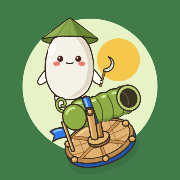
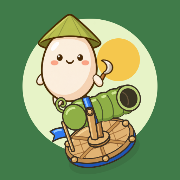
[feature] 쌀 캐릭터 GPU 스프라이트 애니메이션 적용

Changed region(s): [[0.1944, 0.0556, 0.6389, 0.6111]]

diff --git a/prototypes/rice-animation/index.html b/prototypes/rice-animation/index.html
@@ -1,0 +1,58 @@
+<!doctype html>
+<html lang="ko">
+<head>
+<meta charset="utf-8">
+<meta name="viewport" content="width=device-width, initial-scale=1">
+<title>쌀 캐릭터 · 움직임 목업</title>
+<style>
+:root{color-scheme:light;--ink:#29392b;--muted:#647660;--green:#447749;--cream:#fbf7e9;--line:#dbe4c8}
+*{box-sizing:border-box}body{margin:0;background:#edf4e3;color:var(--ink);font-family:system-ui,-apple-system,"Segoe UI","Malgun Gothic",sans-serif}
+button,select,input{font:inherit}button{cursor:pointer}.page{max-width:1160px;margin:auto;padding:30px 24px 40px}
+.top{display:flex;align-items:flex-end;justify-content:space-between;gap:20px;margin-bottom:22px}.eyebrow{font-size:12px;font-weight:800;letter-spacing:.12em;color:#638362}.top h1{font-size:clamp(27px,4vw,38px);letter-spacing:-.05em;line-height:1.1;margin:8px 0}.top p{color:var(--muted);margin:0;font-size:14px;line-height:1.6}.tag{background:#fff9ea;border:1px solid #e7e8d0;border-radius:999px;padding:8px 13px;color:#61785d;font-size:12px;font-weight:700;white-space:nowrap}
+.layout{display:grid;grid-template-columns:minmax(0,1.6fr) minmax(270px,1fr);gap:18px}.stage,.panel{background:var(--cream);border:1px solid #d9e3cb;border-radius:24px;box-shadow:0 12px 35px #3c61310b;overflow:hidden}.stage{position:relative;min-height:490px;background:radial-gradient(ellipse at 50% 12%,#fffef0,#e3f0cf 72%)}.stage-head{position:absolute;top:20px;left:22px;right:22px;display:flex;justify-content:space-between;align-items:center;z-index:1}.stage-label{font-size:12px;color:#698160;font-weight:800}.state-pill{font-size:12px;border-radius:999px;padding:7px 12px;background:#fff9e4;color:#537349;font-weight:800;border:1px solid #e3e7c5}
+canvas{width:100%;height:490px;display:block}.stage-foot{position:absolute;bottom:18px;left:22px;color:#769070;font-size:12px;pointer-events:none}.panel{padding:24px;display:flex;flex-direction:column;gap:22px}.panel h2{margin:0;font-size:18px}.sub{font-size:13px;color:var(--muted);line-height:1.55;margin:6px 0 0}.actions{display:grid;grid-template-columns:repeat(2,1fr);gap:8px;margin-top:14px}.action{min-height:47px;border:1px solid #d7e4c9;border-radius:13px;background:#fffdf5;color:#416045;font-weight:700}.action[aria-pressed=true]{background:#477b4c;border-color:#477b4c;color:#fff;box-shadow:0 3px 0 #315b36}.action:last-child{grid-column:span 2}.section{border-top:1px solid #e2e9d6;padding-top:20px}.label{display:flex;justify-content:space-between;align-items:center;margin-bottom:10px;font-size:13px;font-weight:750}.label span{color:#76866c;font-weight:600}select{width:100%;height:43px;border-radius:11px;border:1px solid #d3dfc8;background:#fffdf5;padding:0 12px;color:var(--ink)}input[type=range]{width:100%;accent-color:var(--green)}.play-row{display:flex;gap:8px}.play-row button{flex:1;min-height:42px;border-radius:11px;border:1px solid #cbdbc2;background:#fffdf5;color:#345739;font-weight:750}.hint{font-size:12px;color:#77866f;line-height:1.6;margin:0}.error{padding:12px;background:#ffe6db;color:#922e18;border-radius:10px}
+@media(max-width:700px){.page{padding:20px 14px 28px}.top{align-items:flex-start}.tag{display:none}.layout{grid-template-columns:1fr}.stage{min-height:360px}canvas{height:360px}.panel{padding:20px;gap:18px}.actions{grid-template-columns:repeat(3,1fr)}.action:last-child{grid-column:auto}.section{padding-top:16px}}
+</style>
+</head>
+<body><main class="page">
+  <header class="top"><div><div class="eyebrow">쌀콩팡! · 캐릭터 실험실</div><h1>쌀의 움직임</h1><p>만든 쌀 부위를 겹쳐 움직여 보는 첫 번째 목업입니다.</p></div><div class="tag">쌀 캐릭터 · 시안</div></header>
+  <div class="layout"><section class="stage" aria-label="쌀 캐릭터 애니메이션 미리보기"><div class="stage-head"><span class="stage-label">움직임 미리보기</span><span id="stateLabel" class="state-pill">대기</span></div><canvas id="stage" aria-label="조합된 쌀 캐릭터"></canvas><div class="stage-foot">몸체·모자 통합 · 얼굴·팔다리 분리</div></section>
+  <aside class="panel"><div><h2>어떤 동작을 볼까요?</h2><p class="sub">동작을 바꿔 모자, 팔과 다리가 어떻게 움직이는지 확인하세요.</p><div class="actions" id="actions"><button class="action" data-mode="idle" aria-pressed="true">대기</button><button class="action" data-mode="walk" aria-pressed="false">걷기</button><button class="action" data-mode="work" aria-pressed="false">작업</button><button class="action" data-mode="attack" aria-pressed="false">공격</button><button class="action" data-mode="hit" aria-pressed="false">피격</button></div></div>
+  <div class="section"><div class="label"><label for="face">표정</label><span>눈과 입 조합</span></div><select id="face"><option value="auto">동작에 맞게</option><option value="smile">웃음</option><option value="surprise">놀람</option><option value="angry">화남</option></select></div>
+  <div><div class="label"><label for="speed">재생 속도</label><span id="speedValue">1.0×</span></div><input id="speed" type="range" min="0.5" max="2" step="0.1" value="1"></div><div class="play-row"><button id="pause" type="button">일시정지</button><button id="restart" type="button">처음부터</button></div><p class="hint">지금은 움직임과 부위 배치를 살펴보는 목업입니다.</p><div id="error" class="error" hidden></div></aside></div>
+</main>
+<script>
+const canvas=document.querySelector('#stage'),ctx=canvas.getContext('2d'),sheet=new Image(),oldFaces=new Image(),bodyWithHat=new Image();sheet.src='./rice-parts-refined.png';oldFaces.src='./rice-parts.png';bodyWithHat.src='./rice-body-hat.png';
+const sprite={sickle:[1518,486,150,240],armL:[1196,510,110,125],armR:[1362,510,115,125],legL:[1208,658,110,116],legR:[1340,658,115,116],eyeL:[1268,369,52,57],eyeR:[1410,369,52,57],angryEyes:[1150,642,290,110],smile:[1333,412,65,34],surprise:[596,842,112,125],cheekL:[1227,412,63,47],cheekR:[1440,412,63,47]};
+const labels={idle:'대기',walk:'걷기',work:'작업',attack:'공격',hit:'피격'};let mode='idle',face='auto',speed=1,paused=false,elapsed=0,last=performance.now();
+function part(key,x,y,w,h,rotation=0){const s=sprite[key],source=key==='angryEyes'||key==='surprise'?oldFaces:sheet;ctx.save();ctx.translate(x,y);ctx.rotate(rotation);if(key.startsWith('eye')||key.startsWith('cheek')){ctx.beginPath();ctx.ellipse(0,0,w*.49,h*.49,0,0,Math.PI*2);ctx.clip()}ctx.drawImage(source,...s,-w/2,-h/2,w,h);ctx.restore()}
+// Body and sickle poses use the original Budmori rice clip keyframes. Coordinates
+// are scaled from its 320px authored body to this mockup's 192px body.
+const clips={
+ idle:{duration:1.2,keys:[[0,0,2.94,0,1.012,.97,.02],[.6,1.18,-2.94,.012,.985,1.03,-.025],[1.2,0,2.94,0,1.012,.97,.02]]},
+ walk:{duration:.48,keys:[[0,-4.9,5.88,-.05,1.06,.94,-.11],[.12,-1.96,-15.86,-.02,.95,1.07,0],[.24,4.9,5.88,.05,1.06,.94,.11],[.36,1.96,-15.86,.02,.95,1.07,0],[.48,-4.9,5.88,-.05,1.06,.94,-.11]]},
+ attack:{duration:1.3,keys:[[0,0,0,0,1,1,0],[.28,-4,3,-.07,1,1,-.65],[.605,8,3,.09,1,1,.85],[.78,8,3,.09,1,1,.85],[1.03,0,0,0,1,1,0],[1.3,0,0,0,1,1,0]]},
+ work:{duration:1.45,keys:[[0,0,0,0,1,1,0],[.28,0,4,-.055,.96,1.04,-.58],[.58,0,-2,.055,1.04,.96,.42],[.76,0,-1,.015,1.01,.99,-.05],[.94,0,0,0,1,1,0],[1.45,0,0,0,1,1,0]]},
+ hit:{duration:1.25,keys:[[0,0,0,0,1,1,0],[.035,15.61,-17.72,.16,.88,1.14,-.18],[.113,-8.81,9.8,-.09,1.1,.9,.018],[.204,2.94,-1.96,.03,.98,1.02,.105],[.295,0,0,0,1,1,0],[1.25,0,0,0,1,1,0]]}
+};
+function poseFor(kind,time){const clip=clips[kind],at=time%clip.duration,keys=clip.keys;let i=0;while(i<keys.length-2&&at>keys[i+1][0])i++;const a=keys[i],b=keys[i+1],u=Math.max(0,Math.min(1,(at-a[0])/(b[0]-a[0]))),e=kind==='hit'?1-(1-u)*(1-u):(1-Math.cos(Math.PI*u))/2;return a.slice(1).map((v,j)=>v+(b[j+1]-v)*e)}
+function frame(now){const dt=Math.min(0.05,Math.max(0,(now-last)/1000));last=now;if(!paused)elapsed+=dt*speed;
+ const box=canvas.getBoundingClientRect(),dpr=Math.min(devicePixelRatio||1,2),w=Math.round(box.width*dpr),h=Math.round(box.height*dpr);if(canvas.width!==w||canvas.height!==h){canvas.width=w;canvas.height=h}ctx.setTransform(dpr,0,0,dpr,0,0);ctx.clearRect(0,0,box.width,box.height);
+ const W=box.width,H=box.height,scale=Math.min(W/470,H/420,1.1);ctx.save();ctx.translate(W/2,H*.56);ctx.scale(scale,scale);
+ const phase=elapsed%clips[mode].duration,smooth=u=>(1-Math.cos(Math.PI*Math.max(0,Math.min(1,u))))/2;
+ const travel=mode==='attack'?(phase<.28?0:phase<.605?42*smooth((phase-.28)/.325):phase<.78?42:phase<1.03?42*(1-smooth((phase-.78)/.25)):0):mode==='work'?(phase<.28?0:phase<.58?24*smooth((phase-.28)/.3):phase<.94?24*(1-smooth((phase-.58)/.36)):0):0;
+ ctx.save();ctx.translate(travel,0);ctx.fillStyle='#c6dba6';ctx.beginPath();ctx.ellipse(0,151,130,22,0,0,Math.PI*2);ctx.fill();ctx.fillStyle='#adc994';ctx.beginPath();ctx.ellipse(0,153,91,11,0,0,Math.PI*2);ctx.fill();ctx.restore();
+ const [px,py,rotation,sx,sy,sickle]=poseFor(mode,elapsed),walk=mode==='walk'?Math.sin(elapsed/clips.walk.duration*Math.PI*2):0;
+ ctx.save();ctx.translate(travel+px*.6,py*.6);ctx.rotate(rotation);ctx.scale(sx,sy);
+ part('legL',-43,119,48,55,walk*.2);part('legR',43,119,48,55,-walk*.2);
+ part('armL',-98,42,48,58,-.2-walk*.12);ctx.drawImage(bodyWithHat,338,140,640,900,-114,-197,228,322);
+ let f=face==='auto'?(mode==='hit'?'surprise':mode==='attack'?'angry':'smile'):face;
+ const blink=(mode==='idle'||mode==='walk')&&elapsed%4.6>4.48;
+ ctx.save();ctx.translate(0,-37);ctx.scale(1,blink ? .13 : 1);if(f==='angry')part('angryEyes',0,0,106,38);else{part('eyeL',-36,0,26,29);part('eyeR',36,0,26,29)}ctx.restore();
+ part('cheekL',-54,-18,32,23);part('cheekR',54,-18,32,23);part(f==='surprise'?'surprise':'smile',0,-21,f==='surprise'?25:34,22);
+ ctx.save();ctx.translate(91,35);ctx.rotate(sickle);part('sickle',33,-22,65,94,-.3);part('armR',8,13,48,58,.2);ctx.restore();
+ ctx.restore();ctx.restore();requestAnimationFrame(frame)}
+Promise.all([sheet.decode(),oldFaces.decode(),bodyWithHat.decode()]).then(()=>requestAnimationFrame(frame)).catch(()=>{const e=document.querySelector('#error');e.hidden=false;e.textContent='쌀 부위 이미지를 불러오지 못했습니다. 이미지 파일이 HTML과 같은 폴더에 있는지 확인해 주세요.'});
+document.querySelector('#actions').addEventListener('click',e=>{const b=e.target.closest('[data-mode]');if(!b)return;mode=b.dataset.mode;elapsed=0;document.querySelectorAll('[data-mode]').forEach(x=>x.setAttribute('aria-pressed',String(x===b)));document.querySelector('#stateLabel').textContent=labels[mode]});
+document.querySelector('#face').addEventListener('change',e=>face=e.target.value);document.querySelector('#speed').addEventListener('input',e=>{speed=Number(e.target.value);document.querySelector('#speedValue').textContent=speed.toFixed(1)+'×'});document.querySelector('#pause').addEventListener('click',e=>{paused=!paused;e.currentTarget.textContent=paused?'재생':'일시정지'});document.querySelector('#restart').addEventListener('click',()=>{elapsed=0});
+</script></body></html>

diff --git a/src/main.js b/src/main.js
@@ -25,6 +25,7 @@ import { BattlefieldProjection, TerrainSurfaceAtlas, TerrainSurfaceProjection } 
 import { BACKGROUND_TICK_PULSE_MS } from './core/session-timing.js';
 import { RENDER_TRACKS } from './render/render-tracks.js';
 import { BuildingArt } from './render/building-art.js';
+import { RiceSpriteRenderer } from './render/rice-sprite.js';
 import { LaunchImpactArt } from './render/launch-impact-art.js';
 import { CONFIG, LAUNCH_HOLD_ARM_MS, LAUNCH_HOLD_DRAG_PX, STATE_PUBLISH_HZ, STATE_PUBLISH_INTERVAL_MS, netcodeMode } from './core/config.js';
 import { BUILD_META } from './core/build-info.js';
@@ -607,7 +608,7 @@ class GLRenderer{
     };
     this.device=new RallyGamekit.WebGLDevice(canvas,this.webglAttrs);
     this.vectorContext=new RallyGamekit.VectorContext(this.device,{safeAlphaRunBatching:true});this.vectorContext.acquireMeshRenderer();this.grainFaces=new RallyGamekit.FaceOverlay(this.vectorContext,{faces:GRAIN_FACE_IDS});// 메시 통계가 첫 유닛 그리기 전에도 null이 아니도록 미리 만든다.
-    this.vectorUnitAssetCache=new Map();this.buildingArt=new BuildingArt(this);
+    this.vectorUnitAssetCache=new Map();this.buildingArt=new BuildingArt(this);this.riceSprites=null;this.riceBodyGroup=[];
     // One actor per grain: a shared actor re-seeked per grain rewrites its pose row and splits the instanced batch.
     this.grainActors=new Map();this.grainActorFrame=0;this.grainBodyGroups=new Map();this.grainOpaqueCoverage=new Map();
     this._vectorUnitMatrix=new Float32Array(6);
@@ -723,6 +724,7 @@ class GLRenderer{
     try{
       this.resize();
       this.grainFaces.prepare();
+      if(!this.riceSprites)this.riceSprites=new RiceSpriteRenderer(C,globalThis.RiceSpriteCanvas,RallyGamekit);
       if(!C.beginFrame())throw new Error("그래픽 장치를 준비할 수 없습니다.");
       for(const [id,source] of Object.entries(globalThis.RallyVectorAssets)){
         holds.push(RallyGamekit.holdVectorAsset(C,source));
@@ -738,6 +740,8 @@ class GLRenderer{
       for(const own of [true,false])for(const dy of [-1,1])for(const fireAgeMs of [Infinity,0]){
         this.buildingArt.draw({id:"resource-preparation"},{x:0,y:0,sc:1,aim:{dx:1,dy},own,fireAgeMs});
       }
+      const rice=this.riceSprites.createActor();actors.push(rice);rice.seek(0);rice.preparePose();C.preparePoses();
+      C.depthTest=true;C.depthWrite=true;this.riceSprites.drawBody(rice,matrix,0);C.depthWrite=false;this.riceSprites.drawFace(rice,matrix,0,'neutral');C.flush('rice-resource-preparation');C.depthTest=false;
       this.buildingArt.prune([]);
       C.endFrame();
       this.gl.finish();
@@ -747,6 +751,7 @@ class GLRenderer{
       if(C.active)C.endFrame();
       this.buildingArt.prune([]);
       for(const hold of holds)hold.release();
+      this.riceSprites?.dispose();this.riceSprites=null;
       throw error;
     }finally{for(const actor of actors)actor.dispose()}
   }
@@ -1912,8 +1917,8 @@ class GLRenderer{
     return Math.max(6.2,(d.size||10)*this.sc()*1.56*this.unitRenderVisualScale(u));
   }
   
-  shouldUseVectorUnitArt(u){
-    return !!window.RallyVectorAssets?.[u?.type];
+  hasGrainArt(u){
+    return u?.type==='rice'||!!window.RallyVectorAssets?.[u?.type];
   }
   launchAmmoRecord(type){
     if(!LaunchRules.grain(type))return null;
@@ -1947,6 +1952,7 @@ class GLRenderer{
   }
   grainUnitRecord(type){
     const key="grain|"+type;let record=this.vectorUnitAssetCache.get(key);if(record)return record;
+    if(type==='rice'){record={compiled:this.riceSprites,ground:[0,145],sprite:true};this.vectorUnitAssetCache.set(key,record);return record}
     const source=window.RallyVectorAssets?.[type];if(!source)return null;
     const sockets=source.metadata.sockets,point=id=>{const s=sockets[id];if(!s)throw new Error(`Grain body is missing socket ${id}`);return s.point};
     record={compiled:source,ground:point("ground")};this.vectorUnitAssetCache.set(key,record);return record;
@@ -1972,13 +1978,19 @@ class GLRenderer{
     this.grainActorFrame++;
     const now=this.presentationNow(performance.now());let rank=0;
     for(const {kind,entity:u,world,depth} of entries){
-      if(kind!=="unit"||!this.shouldUseVectorUnitArt(u))continue;
+      if(kind!=="unit"||!this.hasGrainArt(u))continue;
       const record=this.grainUnitRecord(u.type);if(!record)continue;
       const grain=this.grainActor(u,record),actor=grain.actor,delta=this.renderTrackedDelta(u,"unit"),moving=Math.hypot(delta.x,delta.y)>.01;
       const model=this.renderState.model("unit",u.id,now),entity=model?.entity||u,renderTick=model?.tick??this.snapshot.tick,impact=LaunchImpactArt.unitPose(entity,renderTick,this.snapshot.tps||SIM_TPS);
       const work=impact.active?null:this.constructionWorkPose(entity,renderTick);
-      const clip=impact.active?"idle":work?.clip|| (u.attackFlash>0?"fire":u.hitFlash>0?"hit":moving?"walk":"idle");
-      if(actor.currentClip!==clip)actor.play(clip,0);
+      let clip=impact.active?"idle":work?.clip|| (u.attackFlash>0?"fire":u.hitFlash>0?"hit":moving?"walk":"idle"),restart=false;
+      if(record.sprite){
+        const attack=!!u.attackFlash,hit=!!u.hitFlash;
+        if(attack&&!grain.attackLatch){grain.attackUntil=now+425;restart=true}grain.attackLatch=attack;
+        if(hit&&!grain.hitLatch){grain.hitUntil=now+295;grain.attackUntil=0;restart=true}grain.hitLatch=hit;
+        clip=impact.active||work?.active?'idle':grain.hitUntil>now?'hit':grain.attackUntil>now?'fire':moving?'walk':'idle';
+      }
+      if(actor.currentClip!==clip||restart&&record.sprite&&(clip==='fire'||clip==='hit'))actor.play(clip,0);
       actor.seek(work?.active?0:now+(HashUtil.hash(u.id)%997)*7);
       actor.preparePose();
       // Budmori bodies are front-facing: no rotation, ground socket on the unit's ground point.
@@ -1988,7 +2000,7 @@ class GLRenderer{
       const cx=record.ground[0],cy=record.ground[1]-120;
       m[4]=p.x+(work?.offsetX??0)-m[0]*cx-m[2]*cy;m[5]=p.y+(work?.offsetY??0)+r*.55-120*scale-m[1]*cx-m[3]*cy;
       grain.depth=RangeUtil.clamp(depth,-.98,.98)-(++rank)*GRAIN_DEPTH_RANK_STEP;
-      grain.face=impact.expression||(u.hitFlash>0?"hurt":work?.clip||u.attackFlash>0?"attack":"neutral");grain.bodyDrawn=false;
+      grain.face=impact.expression||((record.sprite?clip==='hit':u.hitFlash>0)?"hurt":work?.clip||(record.sprite?clip==='fire':u.attackFlash>0)?"attack":"neutral");grain.bodyDrawn=false;
     }
     this.vectorContext.preparePoses();
   }
@@ -1997,17 +2009,20 @@ class GLRenderer{
   drawGrainBodies(entries){
     if(!this.passState.depthEnabled)return;
     const C=this.vectorContext,groups=this.grainBodyGroups;
-    for(const g of groups.values())g.length=0;
+    for(const g of groups.values())g.length=0;this.riceBodyGroup.length=0;
     for(const {kind,entity:u} of entries){
       if(kind!=="unit")continue;
       const grain=this.grainActors.get(u.id);
-      if(!grain||grain.frame!==this.grainActorFrame||!this.grainBodyOpaque(grain))continue;
+      if(!grain||grain.frame!==this.grainActorFrame)continue;
+      if(grain.compiled===this.riceSprites){this.riceBodyGroup.push(grain);continue}
+      if(!this.grainBodyOpaque(grain))continue;
       let g=groups.get(grain.compiled);if(!g)groups.set(grain.compiled,g=[]);g.push(grain);
     }
     C.depthTest=true;C.depthWrite=true;C.depthFunc=this.passState.depthFunc||"lequal";
     for(const g of groups.values())for(const grain of g){
       C.depth=grain.depth;C.drawVectorActor(grain.actor,{matrix:grain.matrix});grain.bodyDrawn=true;
     }
+    for(const grain of this.riceBodyGroup){this.riceSprites.drawBody(grain.actor,grain.matrix,grain.depth);grain.bodyDrawn=true}
     C.depth=0;C.depthTest=false;C.depthWrite=false;C.depthFunc="lequal";
   }
   grainBodyOpaque(grain){
@@ -2028,6 +2043,11 @@ class GLRenderer{
     if(this.frame.length){this.flushVectorMesh("frame-to-vector-switch");this.flush(this.frame,true);this.begin()}
     const C=this.vectorContext;
     C.depthTest=!!this.passState.depthEnabled;C.depthWrite=false;C.depthFunc=this.passState.depthFunc||"lequal";
+    if(grain.compiled===this.riceSprites){
+      if(!grain.bodyDrawn)this.riceSprites.drawBody(grain.actor,grain.matrix,grain.depth);
+      this.riceSprites.drawFace(grain.actor,grain.matrix,grain.depth-GRAIN_DEPTH_RANK_STEP/2,grain.face);
+      this.vectorAssetDrawnInstances=(this.vectorAssetDrawnInstances||0)+1;return;
+    }
     C.depth=grain.depth;
     if(!grain.bodyDrawn)C.drawVectorActor(grain.actor,{matrix:grain.matrix});
     C.depth=grain.depth-GRAIN_DEPTH_RANK_STEP/2;
@@ -2039,7 +2059,7 @@ class GLRenderer{
     let grain=this.grainActors.get(u.id);
     if(grain?.compiled!==record.compiled){
       grain?.actor.dispose();
-      grain={actor:RallyGamekit.createVectorActor(this.vectorContext,record.compiled,{clip:"idle",startedAtMs:0}),compiled:record.compiled,
+      grain={actor:record.sprite?this.riceSprites.createActor():RallyGamekit.createVectorActor(this.vectorContext,record.compiled,{clip:"idle",startedAtMs:0}),compiled:record.compiled,
         ground:record.ground,matrix:new Float64Array(6),depth:0,face:"neutral",bodyDrawn:false,frame:0};
       this.grainActors.set(u.id,grain);
     }
@@ -2365,7 +2385,7 @@ class GLRenderer{
     const entries=this.prepareWorldSpriteFrame(visibleUnits);this.prepareGrainPoses(entries);this.drawGrainBodies(entries);
     for(const entry of entries){
       const {kind,entity,world}=entry;this.renderEntity=entity;this.renderStage=kind;
-      const nextPainter=kind==="landingBundle"||(kind==="unit"&&this.shouldUseVectorUnitArt(entity))?"vector":"frame";
+      const nextPainter=kind==="landingBundle"||(kind==="unit"&&this.hasGrainArt(entity))?"vector":"frame";
       if(lastPainter&&nextPainter!==lastPainter){
         if(lastPainter==="vector")this.flushVectorMesh("vector-to-frame-painter-switch");
         else if(this.frame.length){this.flush(this.frame,true);this.begin()}

diff --git a/src/render/rice-sprite.js b/src/render/rice-sprite.js
@@ -1,0 +1,126 @@
+// Rice texture regions and motion use the approved part artwork.  Pose evaluation
+// remains in GameKit; the game supplies only pivots, clips and display state.
+const assetRoot = new URL('../../assets/sprites/rice/', import.meta.url);
+const assetFiles = Object.freeze({body:'body-hat.png',parts:'parts.png',expressions:'expressions.png'});
+
+// The source crops reproduce the reviewed mockup. One-pixel transparent gutters
+// keep linear filtering from sampling a neighbouring part in the shared atlas.
+const pieces = Object.freeze({
+  body:{source:'body',crop:[338,140,640,900],atlas:[1,1,228,322],rect:[-114,-197,228,322],part:0},
+  legL:{source:'parts',crop:[1208,658,110,116],atlas:[232,1,48,55],rect:[-67,91.5,48,55],part:1},
+  legR:{source:'parts',crop:[1340,658,115,116],atlas:[282,1,48,55],rect:[19,91.5,48,55],part:2},
+  armL:{source:'parts',crop:[1196,510,110,125],atlas:[332,1,48,58],rect:[-122,13,48,58],part:3},
+  armR:{source:'parts',crop:[1362,510,115,125],atlas:[382,1,48,58],rect:[75,19,48,58],part:5},
+  sickle:{source:'parts',crop:[1518,486,150,240],atlas:[232,62,65,94],rect:[91.5,-34,65,94],part:6},
+  eyeL:{source:'parts',crop:[1268,369,52,57],atlas:[300,62,26,29],rect:[-49,-51.5,26,29],part:7,ellipse:true},
+  eyeR:{source:'parts',crop:[1410,369,52,57],atlas:[328,62,26,29],rect:[23,-51.5,26,29],part:7,ellipse:true},
+  angryEyes:{source:'expressions',crop:[1150,642,290,110],atlas:[357,62,106,38],rect:[-53,-56,106,38],part:7},
+  cheekL:{source:'parts',crop:[1227,412,63,47],atlas:[300,103,32,23],rect:[-70,-29.5,32,23],part:7,ellipse:true},
+  cheekR:{source:'parts',crop:[1440,412,63,47],atlas:[334,103,32,23],rect:[38,-29.5,32,23],part:7,ellipse:true},
+  smile:{source:'parts',crop:[1333,412,65,34],atlas:[368,103,34,22],rect:[-17,-32,34,22],part:7},
+  surprise:{source:'expressions',crop:[596,842,112,125],atlas:[404,103,25,25],rect:[-12.5,-33.5,25,25],part:7},
+});
+
+const parts = [
+  {id:'body',parent:null,pivot:[0,0]},
+  {id:'legL',parent:'body',pivot:[-43,119]}, {id:'legR',parent:'body',pivot:[43,119]},
+  {id:'armL',parent:'body',pivot:[-98,42]}, {id:'hand',parent:'body',pivot:[91,35]},
+  {id:'armR',parent:'hand',pivot:[99,48]}, {id:'sickle',parent:'hand',pivot:[124,13]},
+  {id:'face',parent:'body',pivot:[0,0]},
+];
+const key=(timeMs,body,hand=0,legL=0,legR=0,armL=0,easing='inOutSine')=>({timeMs,easing,parts:{body,hand:{rotation:hand},legL:{rotation:legL},legR:{rotation:legR},armL:{rotation:armL}}});
+const body=(x=0,y=0,rotation=0,scaleX=1,scaleY=1)=>({x:x*.6,y:y*.6,rotation,scaleX,scaleY});
+export const RICE_RIG=Object.freeze({parts,clips:{
+  idle:{durationMs:1200,loop:'repeat',keyframes:[key(0,body(0,2.94,0,1.012,.97),.02),key(600,body(1.18,-2.94,.012,.985,1.03),-.025),key(1200,body(0,2.94,0,1.012,.97),.02)]},
+  walk:{durationMs:480,loop:'repeat',keyframes:[key(0,body(-4.9,5.88,-.05,1.06,.94),-.11),key(120,body(-1.96,-15.86,-.02,.95,1.07),0,.2,-.2,-.12),key(240,body(4.9,5.88,.05,1.06,.94),.11),key(360,body(1.96,-15.86,.02,.95,1.07),0,-.2,.2,.12),key(480,body(-4.9,5.88,-.05,1.06,.94),-.11)]},
+  fire:{durationMs:1030,loop:'once',keyframes:[key(0,body()),key(280,body(-4,3,-.07),-.65),key(605,body(8,3,.09),.85),key(780,body(8,3,.09),.85),key(1030,body())]},
+  hit:{durationMs:295,loop:'once',keyframes:[key(0,body(),0,0,0,0,'outQuad'),key(35,body(15.61,-17.72,.16,.88,1.14),-.18,0,0,0,'outQuad'),key(113,body(-8.81,9.8,-.09,1.1,.9),.018,0,0,0,'outQuad'),key(204,body(2.94,-1.96,.03,.98,1.02),.105,0,0,0,'outQuad'),key(295,body(),0,0,0,0,'outQuad')]},
+}});
+
+export async function loadRiceSpriteImages(){
+  const manifestResponse=await fetch(new URL('manifest.json',assetRoot),{cache:'no-store'});
+  if(!manifestResponse.ok)throw new Error('쌀 스프라이트 목록을 불러오지 못했습니다.');
+  const manifest=await manifestResponse.json();
+  if(manifest?.schemaVersion!==1||!manifest.assets||Object.keys(manifest.assets).sort().join(',')!==Object.keys(assetFiles).sort().join(','))throw new Error('쌀 스프라이트 목록이 올바르지 않습니다.');
+  return Object.fromEntries(await Promise.all(Object.entries(assetFiles).map(async ([name,file])=>{
+    const entry=manifest.assets[name];
+    if(!entry||entry.file!==file||!Number.isSafeInteger(entry.bytes)||entry.bytes<1||entry.bytes>2*1024*1024||!/^[a-f0-9]{64}$/.test(entry.sha256||''))throw new Error(`쌀 스프라이트 정보가 잘못되었습니다: ${name}`);
+    const response=await fetch(new URL(file,assetRoot),{cache:'no-cache'});if(!response.ok)throw new Error(`쌀 스프라이트를 불러오지 못했습니다: ${name}`);
+    const bytes=await response.arrayBuffer();if(bytes.byteLength!==entry.bytes)throw new Error(`쌀 스프라이트 크기가 다릅니다: ${name}`);
+    const hash=Array.from(new Uint8Array(await crypto.subtle.digest('SHA-256',bytes)),v=>v.toString(16).padStart(2,'0')).join('');
+    if(hash!==entry.sha256)throw new Error(`쌀 스프라이트 해시가 다릅니다: ${name}`);
+    const url=URL.createObjectURL(new Blob([bytes],{type:'image/png'}));
+    try{const image=new Image();image.src=url;await image.decode();return [name,image]}finally{URL.revokeObjectURL(url)}
+  })));
+}
+
+export function buildRiceSpriteCanvas(images){
+  const canvas=document.createElement('canvas');canvas.width=canvas.height=512;
+  const ctx=canvas.getContext('2d');
+  for(const piece of Object.values(pieces)){
+    const [x,y,w,h]=piece.atlas;
+    ctx.save();if(piece.ellipse){ctx.beginPath();ctx.ellipse(x+w/2,y+h/2,w*.49,h*.49,0,0,Math.PI*2);ctx.clip()}
+    ctx.drawImage(images[piece.source],...piece.crop,x,y,w,h);ctx.restore();
+  }
+  return canvas;
+}
+
+// Title/card portraits use exactly the atlas pieces used by the battlefield.
+export function riceSpritePortrait(atlasCanvas,width){
+  const canvas=document.createElement('canvas'),scale=width/320;
+  canvas.width=width;canvas.height=Math.round(360*scale);
+  const ctx=canvas.getContext('2d');ctx.setTransform(scale,0,0,scale,width/2,200*scale);
+  for(const name of ['legL','legR','armL','body','eyeL','eyeR','cheekL','cheekR','smile','sickle','armR']){
+    const p=pieces[name];ctx.drawImage(atlasCanvas,...p.atlas,...p.rect);
+  }
+  return canvas.toDataURL('image/png');
+}
+
+export function prepareRiceSpriteAtlas(device, canvas){
+  const region=device.textureAtlas.allocate(canvas.width,canvas.height,{filter:'linear'});
+  try{device.textureAtlas.upload(region,canvas)}catch(error){device.textureAtlas.release(region);throw error}
+  const atlas=region.atlas;
+  const drawData=(names)=>{
+    const uv=[],local=[],indices=[];
+    for(const name of names){const p=pieces[name],[x,y,w,h]=p.atlas;uv.push((region.x+x)/atlas.width,(region.y+y)/atlas.height,w/atlas.width,h/atlas.height);local.push(...p.rect);indices.push(p.part)}
+    return {uvRects:Float32Array.from(uv),localRects:Float32Array.from(local),parts:Float32Array.from(indices)};
+  };
+  return {region,back:drawData(['legL','legR','armL','body']),front:{
+    neutral:drawData(['eyeL','eyeR','cheekL','cheekR','smile','sickle','armR']),
+    attack:drawData(['angryEyes','cheekL','cheekR','smile','sickle','armR']),
+    hurt:drawData(['eyeL','eyeR','cheekL','cheekR','surprise','sickle','armR']),
+  }};
+}
+
+// GPU pose handles are prepared for all visible characters before any quads are
+// submitted. One shared atlas and pose source serve every instance.
+export class RiceSpriteRenderer{
+  constructor(context,canvas,gamekit){
+    this.context=context;this.mesh=context.acquireMeshRenderer();this.actors=new Set();
+    this.atlas=prepareRiceSpriteAtlas(context.device,canvas);
+    try{this.source=this.mesh.createPoseSource(gamekit.compilePoseChannels(RICE_RIG))}
+    catch(error){context.device.textureAtlas.release(this.atlas.region);throw error}
+    this.base=parts.map((_,i)=>({x:0,y:0,rotation:i===3?-.2:i===5?.2:i===6?-.3:0,scaleX:1,scaleY:1,opacity:1}));
+    this.visible=parts.map(()=>true);this.morph=[0,0];
+    this.disposed=false;context.onDispose(()=>this.dispose());
+  }
+  createActor(){
+    const owner=this,instance=this.mesh.createPoseInstance(this.source);
+    const actor={currentClip:'idle',startedAt:0,elapsed:0,pose:null,disposed:false,
+      play(clip){this.currentClip=clip;this.startedAt=clip==='idle'||clip==='walk'?0:null;return this},
+      // attackFlash is published at contact, so start at the authored contact
+      // key instead of inventing a windup after damage has already happened.
+      seek(time){if(this.startedAt===null)this.startedAt=time-(this.currentClip==='fire'?605:0);this.elapsed=Math.max(0,time-this.startedAt);return this},
+      preparePose(){this.pose=owner.mesh.preparePose(instance,{clipName:this.currentClip,elapsedMs:this.elapsed,basePoses:owner.base,visible:owner.visible,morph:owner.morph});if(!this.pose)throw new Error('쌀 스프라이트에 GPU 포즈를 사용할 수 없습니다.');return this.pose},
+      dispose(){if(this.disposed)return false;this.disposed=true;owner.actors.delete(this);return owner.mesh.deletePoseInstance(instance)},
+    };
+    this.actors.add(actor);return actor;
+  }
+  draw(data,actor,matrix,depth,{depthWriteAlphaThreshold=0}={}){
+    const C=this.context;C.depth=depth;
+    C.drawQuads({layer:this.atlas.region.layer,filter:this.atlas.region.filter,...data,pose:actor.pose,matrix,depthWriteAlphaThreshold});
+  }
+  drawBody(actor,matrix,depth){this.draw(this.atlas.back,actor,matrix,depth,{depthWriteAlphaThreshold:.05})}
+  drawFace(actor,matrix,depth,face){this.draw(this.atlas.front[face]||this.atlas.front.neutral,actor,matrix,depth)}
+  dispose(){if(this.disposed)return false;this.disposed=true;for(const actor of [...this.actors])actor.dispose();this.mesh.deletePoseSource(this.source);this.context.device.textureAtlas.release(this.atlas.region);return true}
+}

diff --git a/src/core/gamekit.js b/src/core/gamekit.js
@@ -1,4 +1,5 @@
-// Loads the pinned GameKit dist (SHA-256 checked) and the unit SVG assets; modules that use GameKit evaluate after this resolves.
+// Loads pinned GameKit dist and the battlefield's verified image/vector assets before dependent modules evaluate.
+import { loadRiceSpriteImages, buildRiceSpriteCanvas } from '../render/rice-sprite.js';
 const RALLY_GAMEKIT_MODULES=Object.freeze({"rollback":"rollback.js","deterministic":"deterministic.js","simloop":"simloop.js","transport":"transport.js","interpolation":"interpolation.js","input":"input.js","rendering":"rendering.js","vectorAssets":"vector-assets.js","camera":"camera.js","events":"presentation-events.js","hud":"hud.js","debug":"debug-tools.js","vectorAssetsLoader":"vector-assets-loader.js","navigation":"navigation.js","objectPool":"object-pool.js","geometry":"geometry.js","spatial":"spatial.js","face":"face.js","pathfield":"pathfield.js","vision":"vision.js"});
 // A dedicated Worker hosts only a simulation session (src/sim-worker.js): no UI boot.
 const SIM_WORKER=typeof WorkerGlobalScope!=='undefined';
@@ -57,10 +58,11 @@ try{
   const loadedVectorAssets=SIM_WORKER?{assets:Object.freeze({}),loader:null}:await loadRallyVectorAssets(namespaces.vectorAssetsLoader);
   globalThis.RallyVectorAssets=loadedVectorAssets.assets;
   globalThis.RallyVectorAssetLoader=loadedVectorAssets.loader;
+  globalThis.RiceSpriteCanvas=SIM_WORKER?null:buildRiceSpriteCanvas(await loadRiceSpriteImages());
   RallyNetcode=Object.freeze({...namespaces.rollback,...namespaces.deterministic,...namespaces.simloop,...namespaces.transport});
   RallyGamekit=Object.freeze(Object.assign({},...modules.map(([,module])=>module)));
   globalThis.RallyGamekit=RallyGamekit;
-  for(const name of ['PresentationRuntime','RenderObject','WebGLDevice','createDOMInput','CameraViewport','PresentationEventQueue','resolveAnchorInto','DiagnosticRing','ReplayTimeline','VectorContext','createVectorActor','holdVectorAsset','createVectorAssetLoader','ObjectPool','createNavigation'])if(typeof RallyGamekit[name]!=='function')throw new Error('Gamekit module API missing: '+name);
+  for(const name of ['PresentationRuntime','RenderObject','WebGLDevice','createDOMInput','CameraViewport','PresentationEventQueue','resolveAnchorInto','DiagnosticRing','ReplayTimeline','VectorContext','createVectorActor','holdVectorAsset','createVectorAssetLoader','compilePoseChannels','ObjectPool','createNavigation'])if(typeof RallyGamekit[name]!=='function')throw new Error('Gamekit module API missing: '+name);
   for(const name of ["createSession","hashBytes","createValueCodec","WebRTCTransport","createNostrSignaler","createLoop","runSyncTestAsync"]){
     if(typeof RallyNetcode[name]!=="function")throw new Error("공개 라이브러리에 필수 API "+name+"가 없습니다. 라이브러리 배포 상태를 확인해 주세요.");
   }

diff --git a/src/ui/grain-portrait.js b/src/ui/grain-portrait.js
@@ -1,9 +1,9 @@
 import { RallyGamekit } from '../core/gamekit.js';
+import { riceSpritePortrait } from '../render/rice-sprite.js';
 
 const { drawFacePaths } = RallyGamekit;
 
-// Title and card portraits: the grain body SVG with its shared face drawn on top, as an image URL.
-// The body file is the same one the battlefield compiles; only the face is added here.
+// Title and card portraits use the same artwork as the battlefield.
 const PORTRAITS = new Map();
 
 export function grainPortrait(type, compiled, width = 160) {
@@ -15,6 +15,7 @@ export function grainPortrait(type, compiled, width = 160) {
 }
 
 async function renderPortrait(type, compiled, width) {
+    if (type === 'rice') return riceSpritePortrait(globalThis.RiceSpriteCanvas, width);
     const [VX, VY, VW, VH] = compiled.viewBox,
         SCALE = width / VW,
         BODY = new Image();

diff --git a/src/core/product-version.js b/src/core/product-version.js
@@ -1,1 +1,1 @@
-export const PRODUCT_VERSION='0.3.1';
+export const PRODUCT_VERSION='0.3.2';

diff --git a/prototypes/rice-animation/README.md b/prototypes/rice-animation/README.md
@@ -1,0 +1,5 @@
+# 쌀 캐릭터 움직임 목업
+
+저장소 루트에서 `python -m http.server 18762 --bind 127.0.0.1 --directory prototypes/rice-animation`을 실행하고 `http://127.0.0.1:18762/`를 열어 대기·걷기·작업·공격·피격과 표정을 확인한다. `rice-body-hat.png`는 모자와 몸체가 처음부터 합쳐진 이미지 생성 시안이며, `rice-parts-refined.png`와 `rice-parts.png`는 별도 팔다리·표정용 시안이다. 세 파일은 실제 게임 아틀라스가 아니다. 목업은 통짜 몸체를 한 번 그리고 표정·팔다리·낫을 따로 배치한다.
+
+대기·걷기·피격의 몸체 키프레임은 [버드모리 쌀 원본](https://github.com/byh-playground/budmori-io/blob/main/assets/troops/rice.svg)의 기존 동작을 참조했다. 공격은 버드모리의 `src/features/unit-attacks/rice/presentation.js`와 `src/features/species-growth/rice-attack.js`의 준비·접촉·복귀를, 작업은 `src/model/farm-work.js`의 별도 단계를 참고해 이 이미지에 맞춰 시각적으로 재구성했다. 이 목업은 독립 Canvas 2D이며 GameKit GPU 배치·실제 판정·성능 검증을 포함하지 않는다.

diff --git a/README.md b/README.md
@@ -4,7 +4,7 @@
 
 영문 표기는 **Rice, Beans & Boom!**입니다. 공유 썸네일 원본은 [`assets/ssalkongpang-thumbnail.png`](assets/ssalkongpang-thumbnail.png)입니다. BLOOM PLAYGROUND 매니페스트의 영문 필드는 해당 스키마의 문자 제한 때문에 `RICE BEANS AND BOOM`으로 표기합니다.
 
-앱 아이콘은 현재 쌀 몸체·GameKit 공통 얼굴과 대포 원본을 조합합니다. 원본 아트 변경 후 `npm run generate:icons`로 180·192·512px 아이콘을 다시 만듭니다.
+쌀은 모자와 몸체가 한 장인 스프라이트와 얼굴·팔다리·낫을 공통 아틀라스에서 GPU 포즈로 조합합니다. 콩·팥과 대포는 기존 벡터 원본을 사용합니다. 앱 아이콘은 현재 쌀과 대포 원본을 조합하며, 아트 변경 후 `npm run generate:icons`로 180·192·512px 아이콘을 다시 만듭니다.
 
 [현재 배포본 실행](https://byh-playground.github.io/rally-frontier/)
 
